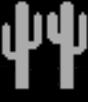
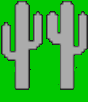
Add files via upload

diff --git a/modules/dinorun.py b/modules/dinorun.py
@@ -9,19 +9,27 @@ import sys, os
 
 
 class Dino():
-    def __init__(self, img_dark = None, img_light = None, size = (147, 150), pos = (50, 450)):
+    def __init__(self, img_dark = None, img_light = None, pos = (50, 450)):
+        size = (img_dark.get_rect()[2], img_dark.get_rect()[3])
         self.img_dark = img_dark
         self.img_light = img_light
         self.rect = pg.Rect(pos, size)
         self.pos = list(pos)
         self.v = 0
         self.locked = False
+        self.surf = pg.Surface((size))
+        self.surf.blit(img_light, (0,0))
+        self.surf.set_colorkey(clr.green_screen)
+        self.mask = pg.mask.from_surface(self.surf)
     def show(self, screen, screenCol):
         if screenCol == clr.black:
             image = self.img_dark
         else:
             image = self.img_light
-        screen.blit(image, self.pos)
+        self.surf.blit(image, (0,0))
+        self.surf.set_colorkey(clr.green_screen)
+        self.mask = pg.mask.from_surface(self.surf)
+        screen.blit(self.surf, self.pos)
     def move(self, a = -5):
         if self.locked:
         	a = -6
@@ -39,12 +47,13 @@ class Dino():
 class Bush():
     def __init__(self, img_list_light, img_list_dark, pos, speed = 20):
         self.pos = list(pos)
-        self.img_list_light = img_list_light	
+        self.img_list_light = img_list_light
         self.img_list_dark = img_list_dark
         self.image_d = None
         self.image_l = None
         self.rect = pg.Rect(pos, (0,0))
         self.speed = speed
+        self.mask = None
     def show(self, screen, screenCol):
         if self.image_d == None or self.pos[0] < -150:
             if self.image_d != None:
@@ -63,14 +72,21 @@ class Bush():
         else:
         	image = self.image_l
         	col = clr.dark_dark_gray
-        self.rect[2], self.rect[3] = image.get_rect()[2], image.get_rect()[3]
-        screen.blit(image, self.pos)
+        size = (image.get_rect()[2], image.get_rect()[3])
+        surf = pg.Surface(size)
+        surf.blit(image, (0,0))
+        surf.set_colorkey(clr.green_screen)
+        self.mask = pg.mask.from_surface(surf)
+        self.rect[2], self.rect[3] = size
+        screen.blit(surf, self.pos)
     def move(self):
         self.pos[0] -= self.speed
         self.rect[0] = self.pos[0]
     def crash(self, dino):
-        temp = self.rect.colliderect(dino.rect)
-        return temp
+        offset_x = dino.rect[0] - self.rect[0]
+        offset_y = dino.rect[1] - self.rect[1]
+        overlap = self.mask.overlap(dino.mask, (offset_x, offset_y))
+        return overlap
 
 def mainLoop(screenCol, textCol):
     screenWd, screenHt = 1120, 630
@@ -155,7 +171,7 @@ def mainLoop(screenCol, textCol):
                 score += 1
 
         text(screen, screenWd - 100, 5, 30, str(score), textCol)
-        
+
         if alive and paused == False:
         	dino.move()
 

diff --git a/main.py b/main.py
@@ -42,10 +42,10 @@ def mainLoop():
     tictactoe_button = Button(320, 50, 200, 200, 'Tic-Tac-Toe', tictactoe_image, tictactoe_hovour)
     flappybird = Button(590, 50, 200, 200, 'Flappy Bird', flappybird_img, flappybird_hov)
     dino_run = Button(860, 50, 200, 200, 'Dino run', dinorun_img, dinorun_img_hov)
-    
+
     exit_button = Button(1050, 600, 50, 30, "Exit", textHeight = 30, textColour = clr.white, opaque = False)
     butt_mode = Button(1075, 15, 20, 20)
-    
+
     while True:
         for event in pg.event.get():
             if event.type == pg.QUIT:
@@ -53,7 +53,7 @@ def mainLoop():
             if event.type == pg.KEYDOWN:
                 if event.key == pg.K_ESCAPE:
                     Quit()
-        
+
         if randCircle.get_click():
             temp = screenCol
             screenCol, textCol, speed, size = randGameHub.difficultyChoice(screenCol, textCol)
@@ -69,6 +69,7 @@ def mainLoop():
 
         elif paint_button.get_click():
             paint.mainLoop(screenCol, textCol)
+            pg.mouse.set_visible(True)
 
         elif tictactoe_button.get_click():
             temp = screenCol
@@ -119,9 +120,9 @@ def mainLoop():
                 background = black_background
                 exit_button.textColour = textCol = clr.white
                 screenCol = clr.black
-        
+
         pg.display.set_caption('Hub')
-        
+
         screen.blit(background, (0, 0))
 
         if randCircle.onButton():
@@ -134,12 +135,12 @@ def mainLoop():
             text(screen, 30, 585, 30, "Flappy Bird: Classic game where you need to last as long as you can without crashing.", textCol)
         elif dino_run.onButton():
             text(screen, 30, 585, 30, "Dino Run: Classic game where you need to last as long as you can without crashing.", textCol)
-             
+
         if screenCol == clr.black:
             sun(screen)
         else:
             moon(screen)
-        
+
         randCircle.show(screen)
         paint_button.show(screen)
         tictactoe_button.show(screen)
@@ -149,9 +150,9 @@ def mainLoop():
         pg.display.update()
 
         clock.tick(FPS)
-        
-        
-        
+
+
+
 
 ###################################################################################################################################################################################################
 

diff --git a/modules/GUI_elements.py b/modules/GUI_elements.py
@@ -2,7 +2,7 @@ import pygame as pg
 pg.init()
 import math
 import clr
-
+import sys
 
 class Button():
     def __init__(self, x, y, wd, ht, text = '', img = None, hovourImg = None, textHeight = None, textColour = clr.black,
@@ -79,6 +79,7 @@ class Button():
             return temp
         if self.flag and temp == False:
             self.flag = False
+        return False
 
 class Text():
     def __init__(self, x, y,  size, surfsize, text = '', colour = pg.Color("BLACK")):
@@ -96,7 +97,7 @@ class Text():
 '''---------------------------------------------------------------------------------------------------------------------------------------------------------------------------------------------'''
 def Quit():
     pg.quit()
-    exit()
+    sys.exit()
 
 def text(screen, x , y, size, text, colour = clr.white, center = None):
     textSurf = pg.font.SysFont(pg.font.get_default_font(), size).render(text, True, colour)

diff --git a/modules/clr.py b/modules/clr.py
@@ -5,6 +5,7 @@ black = pg.Color("BLACK")
 green = pg.Color(0, 255, 0)
 light_green = pg.Color(150, 255, 150)
 dark_green = pg.Color(0, 200, 0)
+green_screen = pg.Color(0, 200, 0)
 select_green = pg.Color("LIGHTGREEN")
 orange = pg.Color(255, 128, 0)
 light_orange = pg.Color(255, 178, 102)

diff --git a/modules/flappy_bird.py b/modules/flappy_bird.py
@@ -228,4 +228,4 @@ def mainLoop(screencol, textcol):
 ##except:
 ##    traceback.print_exc()
 ##finally:
-##    pg.quit()
+##    pg.quit
